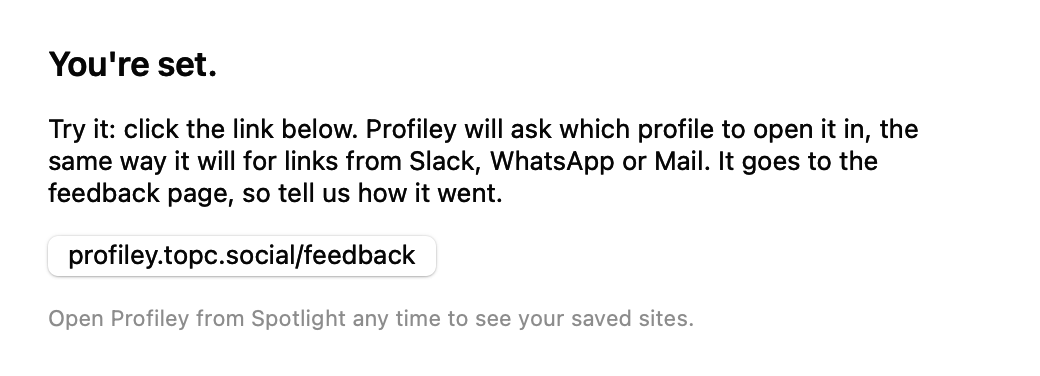
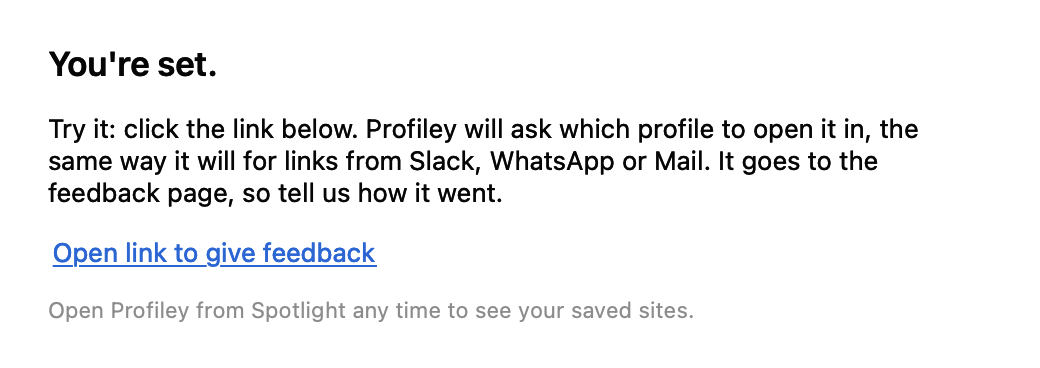
Setup: feedback as a plain link

diff --git a/Profiley.swift b/Profiley.swift
@@ -587,8 +587,12 @@ final class Picker: NSObject, NSApplicationDelegate, NSWindowDelegate {
         }
         var views: [NSView]
         if done {
-            let link = NSButton(title: feedbackURL.replacingOccurrences(of: "https://", with: ""), target: self, action: #selector(tryLink))
-            link.bezelStyle = .rounded
+            let link = NSButton(title: "", target: self, action: #selector(tryLink))
+            link.isBordered = false
+            link.attributedTitle = NSAttributedString(string: "Open link to give feedback", attributes: [
+                .font: NSFont.systemFont(ofSize: 13), .foregroundColor: NSColor.linkColor,
+                .underlineStyle: NSUnderlineStyle.single.rawValue])
+            link.toolTip = feedbackURL
             link.keyEquivalent = "\r"
             views = [label("You're set.", size: 17, weight: .semibold),
                      label("Try it: click the link below. Profiley will ask which profile to open it in, the same way it will for links from Slack, WhatsApp or Mail. It goes to the feedback page, so tell us how it went."),
